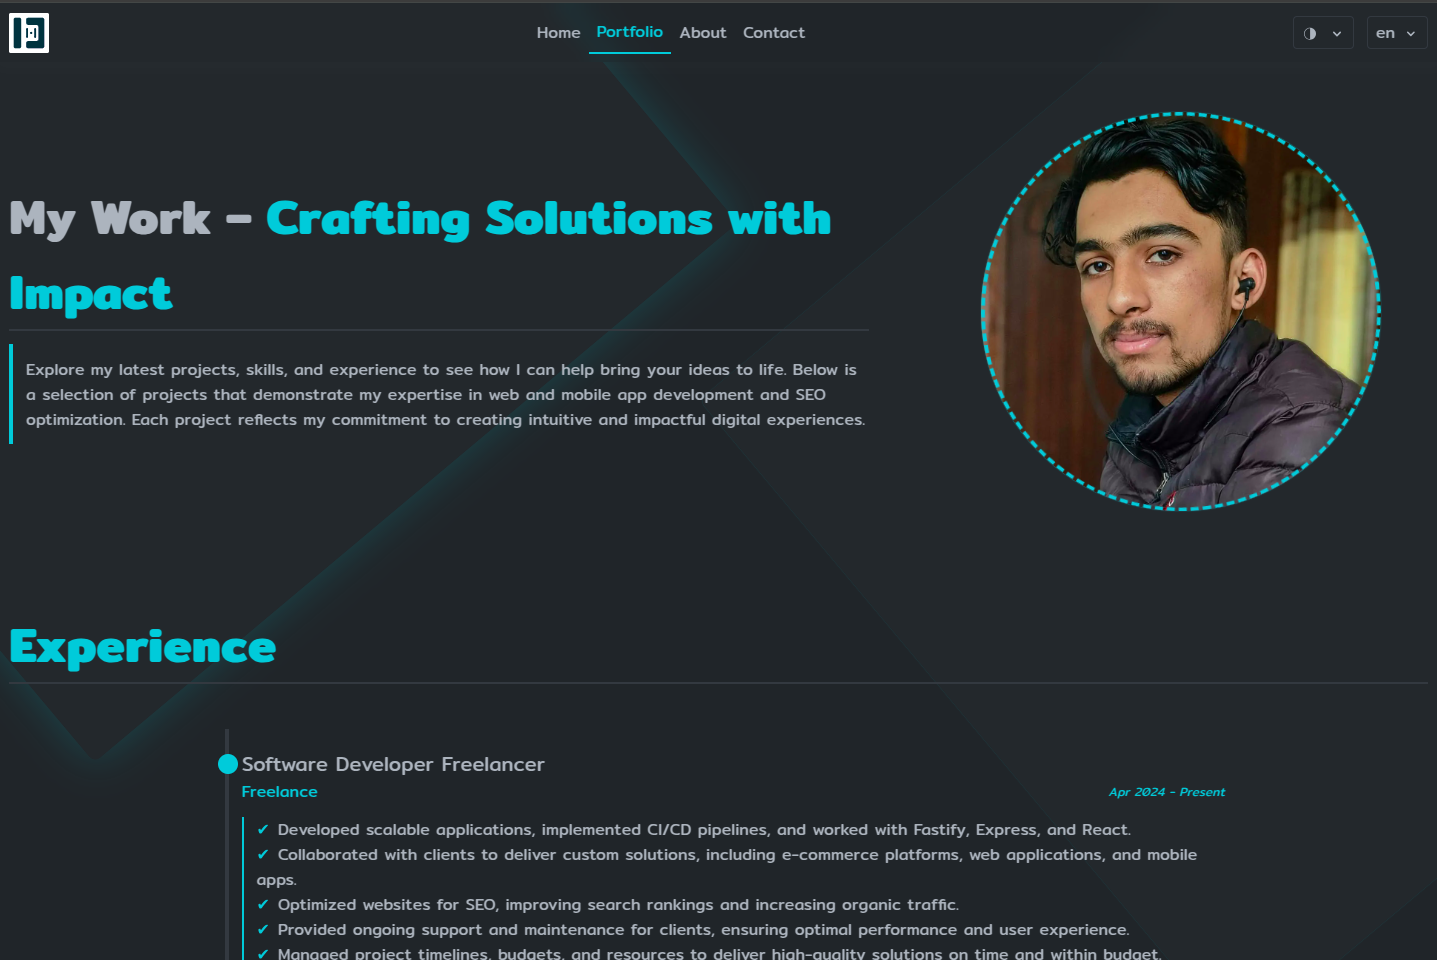
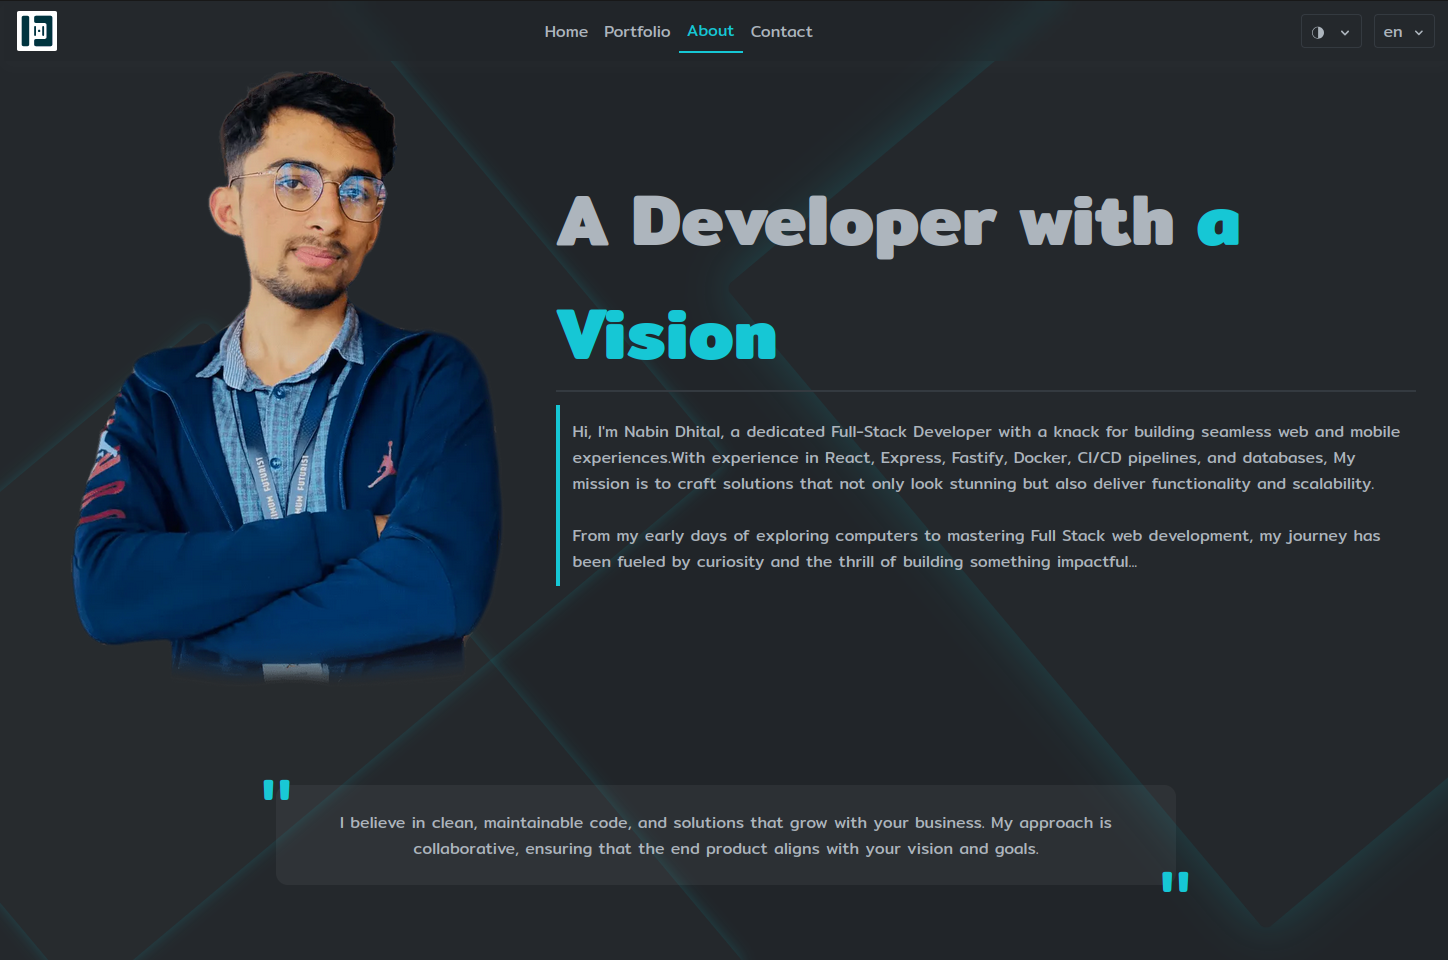
feat(apps/portfolio): update seo content, footer content, social links, config and env properties

diff --git a/apps/portfolio/index.html b/apps/portfolio/index.html
@@ -3,7 +3,6 @@
   <head>
     <meta charset="UTF-8" />
     <link rel="icon" type="image/svg+xml" href="/nabin-logo.svg" />
-    <meta charset="UTF-8" />
     <meta name="description" content="<%- description %>" />
     <meta name="keywords" content="<%- keywords %>" />
     <meta name="author" content="<%- author %>" />
@@ -14,18 +13,14 @@
       href="https://fonts.googleapis.com/css2?family=Mitr:wght@200;300;400;500;600;700&family=Sofadi+One&display=swap"
       rel="stylesheet"
     />
-    <meta charset="UTF-8" />
     <meta name="robots" content="index, follow" />
-    <meta name="theme-color" content="#16c7d5" />
+    <meta name="theme-color" content="<%- themeColor %>" />
 
     <meta property="og:title" content="<%- title %>" />
     <meta property="og:description" content="<%- description %>" />
     <meta property="og:type" content="website" />
-    <meta property="og:url" content="https://nabindhital.com.np" />
-    <meta
-      property="og:image"
-      content="https://nabindhital.com.np/preview.png"
-    />
+    <meta property="og:url" content="<%- appURL %>" />
+    <meta property="og:image" content="<%- appURL %>/preview.png" />
     <meta
       property="og:image:alt"
       content="Preview of <%- author %>'s Portfolio"
@@ -35,18 +30,15 @@
     <meta name="twitter:card" content="summary_large_image" />
     <meta name="twitter:title" content="<%- title %>" />
     <meta name="twitter:description" content="<%- description %>" />
-    <meta
-      name="twitter:image"
-      content="https://nabindhital.com.np/preview.png"
-    />
+    <meta name="twitter:image" content="<%- appURL %>/preview.png" />
     <meta
       name="twitter:image:alt"
       content="Preview of <%- author %>'s  Portfolio"
     />
-    <meta name="twitter:site" content="@YourTwitterHandle" />
-    <meta name="twitter:creator" content="@YourTwitterHandle" />
+    <meta name="twitter:site" content="<%- appTwitterHandle %>" />
+    <meta name="twitter:creator" content="<%- appTwitterHandle %>" />
 
-    <link rel="canonical" href="https://nabindhital.com.np" />
+    <link rel="canonical" href="<%- appURL %>" />
 
     <title><%- title %></title>
   </head>
@@ -60,13 +52,13 @@
         "name": "<%- author %>",
         "jobTitle": "Full Stack Developer",
         "description": "<%- description %>",
-        "url": "https://nabindhital.com.np",
+        "url": "<%- appURL %>",
         "sameAs": [
-          "https://www.linkedin.com/in/dhitalnabin",
-          "https://github.com/Nabin99",
-          "https://twitter.com/dhitalnabin111"
+          "<%- appLinkedInURL %>",
+          "<%- appGitHubURL %>",
+          "<%- appTwitterURL %>"
         ],
-        "image": "https://nabindhital.com.np/preview.png",
+        "image": "<%- appURL %>/preview.png",
         "worksFor": {
           "@type": "Organization",
           "name": "Freelance Full Stack Developer"

diff --git a/apps/portfolio/src/components/SocialLinks.tsx b/apps/portfolio/src/components/SocialLinks.tsx
@@ -1,3 +1,4 @@
+import { getAppConfig } from "@notadream/react";
 import { BrowserLink } from "@notadream/react";
 import { FaFacebookSquare } from "react-icons/fa";
 import { FaGithubSquare } from "react-icons/fa";
@@ -5,30 +6,32 @@ import { FaLinkedin } from "react-icons/fa";
 import { FaSquareXTwitter } from "react-icons/fa6";
 import { FaSquareInstagram } from "react-icons/fa6";
 
-const socialLinkList = [
-  {
-    href: "https://www.linkedin.com/in/nabin-dhital-a8ba64234",
-    icon: <FaLinkedin />,
-  },
-  {
-    href: "https://github.com/Nabin99",
-    icon: <FaGithubSquare />,
-  },
-  {
-    href: "https://www.instagram.com/dhitalnabin11/",
-    icon: <FaSquareInstagram />,
-  },
-  {
-    href: "https://www.facebook.com/nabin.dhital.56",
-    icon: <FaFacebookSquare />,
-  },
-  {
-    href: "https://twitter.com/dhitalnabin111?t=5TKgyPYJKs45rsoRdjwpIA&s=09",
-    icon: <FaSquareXTwitter />,
-  },
-];
-
 export const SocialLinks = () => {
+  const appConfig = getAppConfig();
+
+  const socialLinkList = [
+    {
+      href: appConfig.socialLinks.linkedin,
+      icon: <FaLinkedin />,
+    },
+    {
+      href: appConfig.socialLinks.github,
+      icon: <FaGithubSquare />,
+    },
+    {
+      href: appConfig.socialLinks.instagram,
+      icon: <FaSquareInstagram />,
+    },
+    {
+      href: appConfig.socialLinks.facebook,
+      icon: <FaFacebookSquare />,
+    },
+    {
+      href: appConfig.socialLinks.twitter,
+      icon: <FaSquareXTwitter />,
+    },
+  ];
+
   return (
     <div className="social-links">
       {socialLinkList.map((link, i) => (

diff --git a/apps/portfolio/src/pages/portfolio/Portfolio.tsx b/apps/portfolio/src/pages/portfolio/Portfolio.tsx
@@ -153,7 +153,6 @@ const softSkills = [
   // Communication Skills
   "Communication",
   "Active Listening",
-  "Public Speaking",
   "Non-verbal Communication",
   "Empathy",
 
@@ -161,20 +160,16 @@ const softSkills = [
   "Teamwork",
   "Collaboration",
   "Conflict Resolution",
-  "Networking",
   "Relationship Building",
 
   // Leadership Skills
   "Decision-Making",
-  "Delegation",
-  "Motivation",
   "Coaching and Mentoring",
   "Vision Setting",
 
   // Problem-Solving and Critical Thinking
   "Analytical Thinking",
   "Creativity",
-  "Resourcefulness",
   "Adaptability",
   "Logical Reasoning",
 
@@ -183,35 +178,26 @@ const softSkills = [
   "Reliability",
   "Accountability",
   "Goal Setting",
-  "Resilience",
 
   // Adaptability and Flexibility
   "Open-Mindedness",
   "Ability to Learn New Skills",
   "Handling Ambiguity",
-  "Staying Calm Under Pressure",
   "Growth Mindset",
 
   // Technical Collaboration
-  "Translating Technical Concepts",
   "Cross-Functional Collaboration",
   "Customer-Centric Thinking",
-  "Process Optimization",
   "Understanding Feedback",
 
   // Creativity and Innovation
   "Brainstorming",
   "Design Thinking",
-  "Experimentation",
-  "Visionary Thinking",
-  "Storytelling",
 
   // Emotional Intelligence
   "Self-Awareness",
-  "Empathy",
   "Relationship Management",
   "Stress Management",
-  "Conflict De-escalation",
 ];
 
 const projects = [

diff --git a/apps/portfolio/vite.config.ts b/apps/portfolio/vite.config.ts
@@ -26,6 +26,17 @@ export default defineConfig(({ mode }) => {
               process.env.VITE_APP_KEYWORDS ||
               "Software developer, React, NodeJs, MERN stack",
             author: process.env.VITE_APP_AUTHOR || "Nabin Dhital",
+            themeColor: process.env.VITE_APP_THEME_COLOR || "#000000",
+            appURL: process.env.VITE_APP_URL || "http://localhost:4003",
+            appLinkedInURL: process.env.VITE_APP_LINKEDIN_URL || "",
+            appGitHubURL: process.env.VITE_APP_GITHUB_URL || "",
+            appTwitterURL: process.env.VITE_APP_TWITTER_URL || "",
+            appFacebookURL: process.env.VITE_APP_FACEBOOK_URL || "",
+            appInstagramURL: process.env.VITE_APP_INSTAGRAM_URL || "",
+            appYouTubeURL: process.env.VITE_APP_YOUTUBE_URL || "",
+            appPinterestURL: process.env.VITE_APP_PINTEREST_URL || "",
+            appWhatsAppURL: process.env.VITE_APP_WHATSAPP_URL || "",
+            appTwitterHandle: process.env.VITE_APP_TWITTER_HANDLE || "",
           },
         },
         minify: true,

diff --git a/apps/portfolio/src/config.ts b/apps/portfolio/src/config.ts
@@ -8,6 +8,13 @@ declare module "@notadream/react" {
       emailJsTemplateId: string;
       emailJsUserId: string;
     };
+    socialLinks: {
+      facebook: string;
+      github: string;
+      instagram: string;
+      linkedin: string;
+      twitter: string;
+    };
   }
 }
 
@@ -33,6 +40,13 @@ configureApp({
     emailJsServiceId: import.meta.env.VITE_EMAILJS_SERVICE_ID || "",
     emailJsTemplateId: import.meta.env.VITE_EMAILJS_TEMPLATE_ID || "",
     emailJsUserId: import.meta.env.VITE_EMAILJS_USER_ID || "",
+  },
+  socialLinks: {
+    facebook: import.meta.env.VITE_APP_FACEBOOK_URL || "",
+    github: import.meta.env.VITE_APP_GITHUB_URL || "",
+    instagram: import.meta.env.VITE_APP_INSTAGRAM_URL || "",
+    linkedin: import.meta.env.VITE_APP_LINKEDIN_URL || "",
+    twitter: import.meta.env.VITE_APP_TWITTER_URL || "",
   },
   theme: {
     localStorageName: "theme",

diff --git a/apps/portfolio/src/layouts/components/Footer.tsx b/apps/portfolio/src/layouts/components/Footer.tsx
@@ -1,4 +1,9 @@
-import { Footer as FooterLayout, Logo, useTranslation } from "@notadream/react";
+import {
+  Footer as FooterLayout,
+  Logo,
+  RouterLink,
+  useTranslation,
+} from "@notadream/react";
 
 import logo from "../../assets/images/logo.svg";
 import { SocialLinks } from "../../components/SocialLinks";
@@ -18,7 +23,12 @@ const FooterBody = () => {
   const { t } = useTranslation("app.footer");
   return (
     <>
-      <span>{t("thankYouMessage")}</span>
+      <p>
+        <span>{t("message").split("$$$")[0]}</span>
+        <RouterLink variant="borderless" to="/contact">
+          {t("message").split("$$$")[1]}
+        </RouterLink>
+      </p>
       <SocialLinks />
     </>
   );

diff --git a/apps/portfolio/src/i18n/locale/ne.ts b/apps/portfolio/src/i18n/locale/ne.ts
@@ -16,8 +16,8 @@ export const ne: TranslationData = {
     footer: {
       buildMessage: "Designed and Build from scratch with all my [ne]",
       copyRight: "Copyright {{year}} {{name}}. All Rights Reserved. [ne]",
-      thankYouMessage:
-        "These are all the words my heart could share, thank you for visiting and taking the time to be here. [ne]",
+      message:
+        "The best way to predict the future is to create it. Let’s turn your ideas into reality. $$$Ready to build it together?[ne]",
     },
     title: "Nabin Dhital [ne]",
   },

diff --git a/apps/portfolio/src/i18n/locale/en.ts b/apps/portfolio/src/i18n/locale/en.ts
@@ -16,8 +16,8 @@ export const en: TranslationData = {
     footer: {
       buildMessage: "Designed and Build from scratch with ",
       copyRight: "Copyright {{year}} {{name}}. All Rights Reserved.",
-      thankYouMessage:
-        "These are all the words my heart could share, thank you for visiting and taking the time to be here.",
+      message:
+        "The best way to predict the future is to create it. Let’s turn your ideas into reality. $$$Ready to build it together?",
     },
     title: "Nabin Dhital",
   },

diff --git a/apps/portfolio/src/assets/css/layouts/footer.css b/apps/portfolio/src/assets/css/layouts/footer.css
@@ -30,17 +30,18 @@ footer {
   max-width: var(--nd-miscellaneous-max-page-width);
 }
 
-.footer-footer {
-  flex-direction: column;
-  margin: auto;
-  width: 100%;
-  max-width: var(--nd-miscellaneous-max-page-width);
-}
-
 .heart-symbol {
   color: red;
   /* font-size: var(--nd-font-sizes-h4); */
   font-weight: bold;
+}
+
+footer .footer-body > p {
+  display: flex;
+  align-items: center;
+  flex-wrap: wrap;
+  justify-content: center;
+  gap: var(--nd-spacing-xs);
 }
 
 @keyframes pulse-text-shadow {

diff --git a/apps/portfolio/src/i18n/type.ts b/apps/portfolio/src/i18n/type.ts
@@ -18,7 +18,7 @@ declare module "@notadream/react" {
       footer: {
         buildMessage: string;
         copyRight: string;
-        thankYouMessage: string;
+        message: string;
       };
     };
     homePage: {
